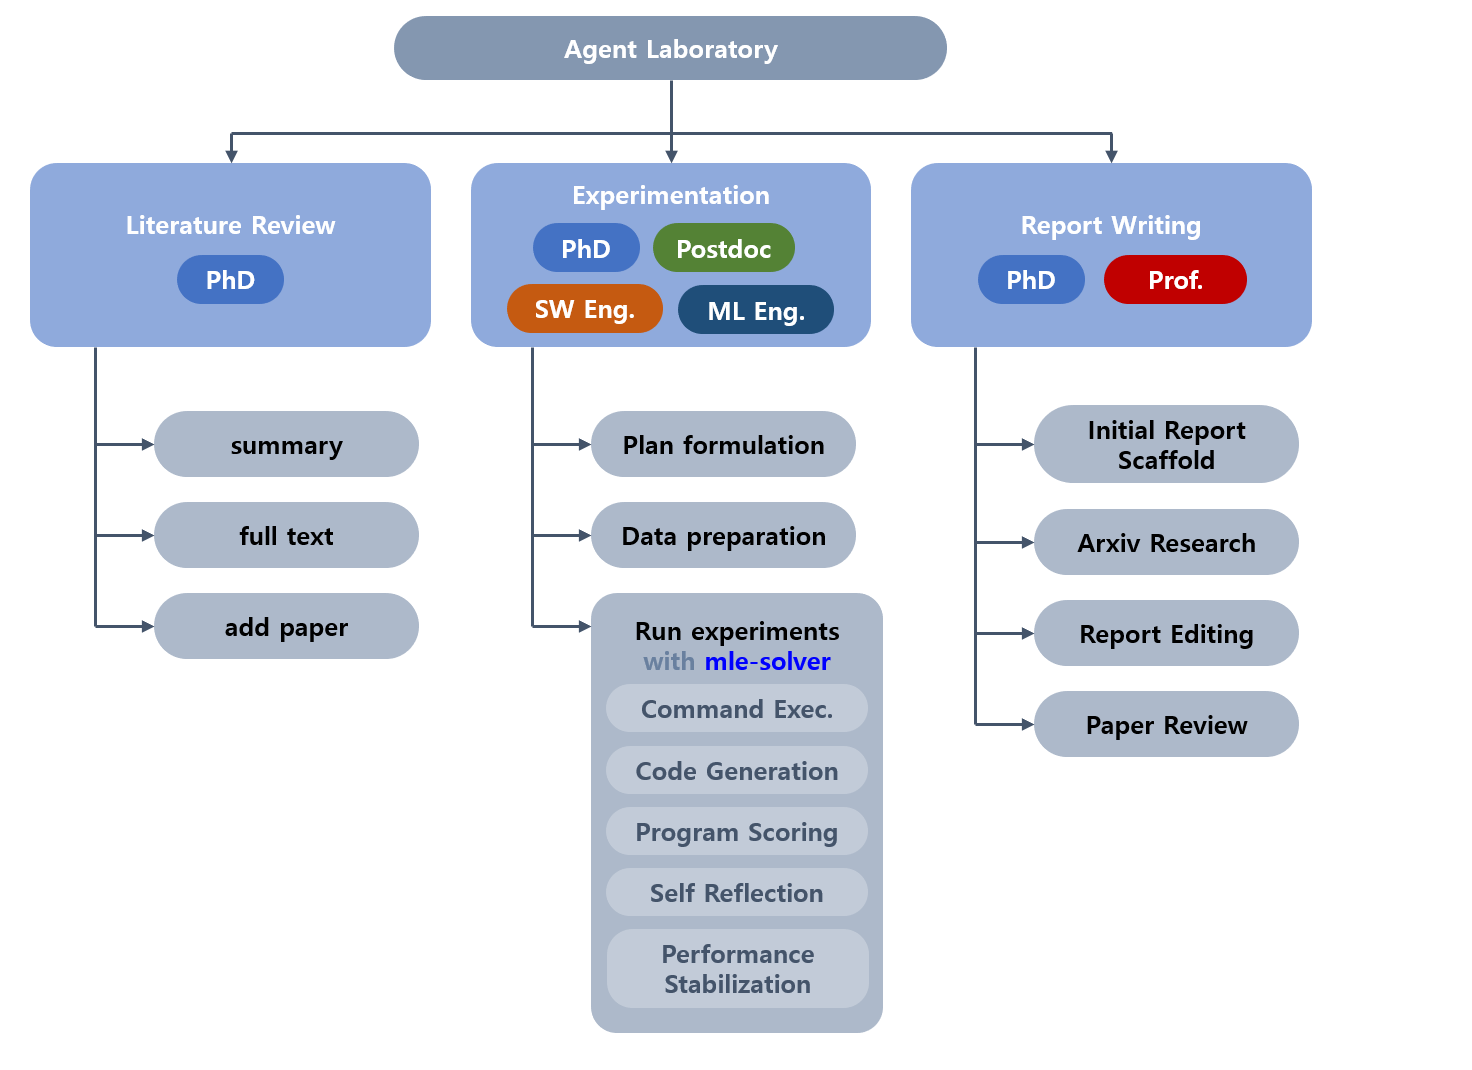
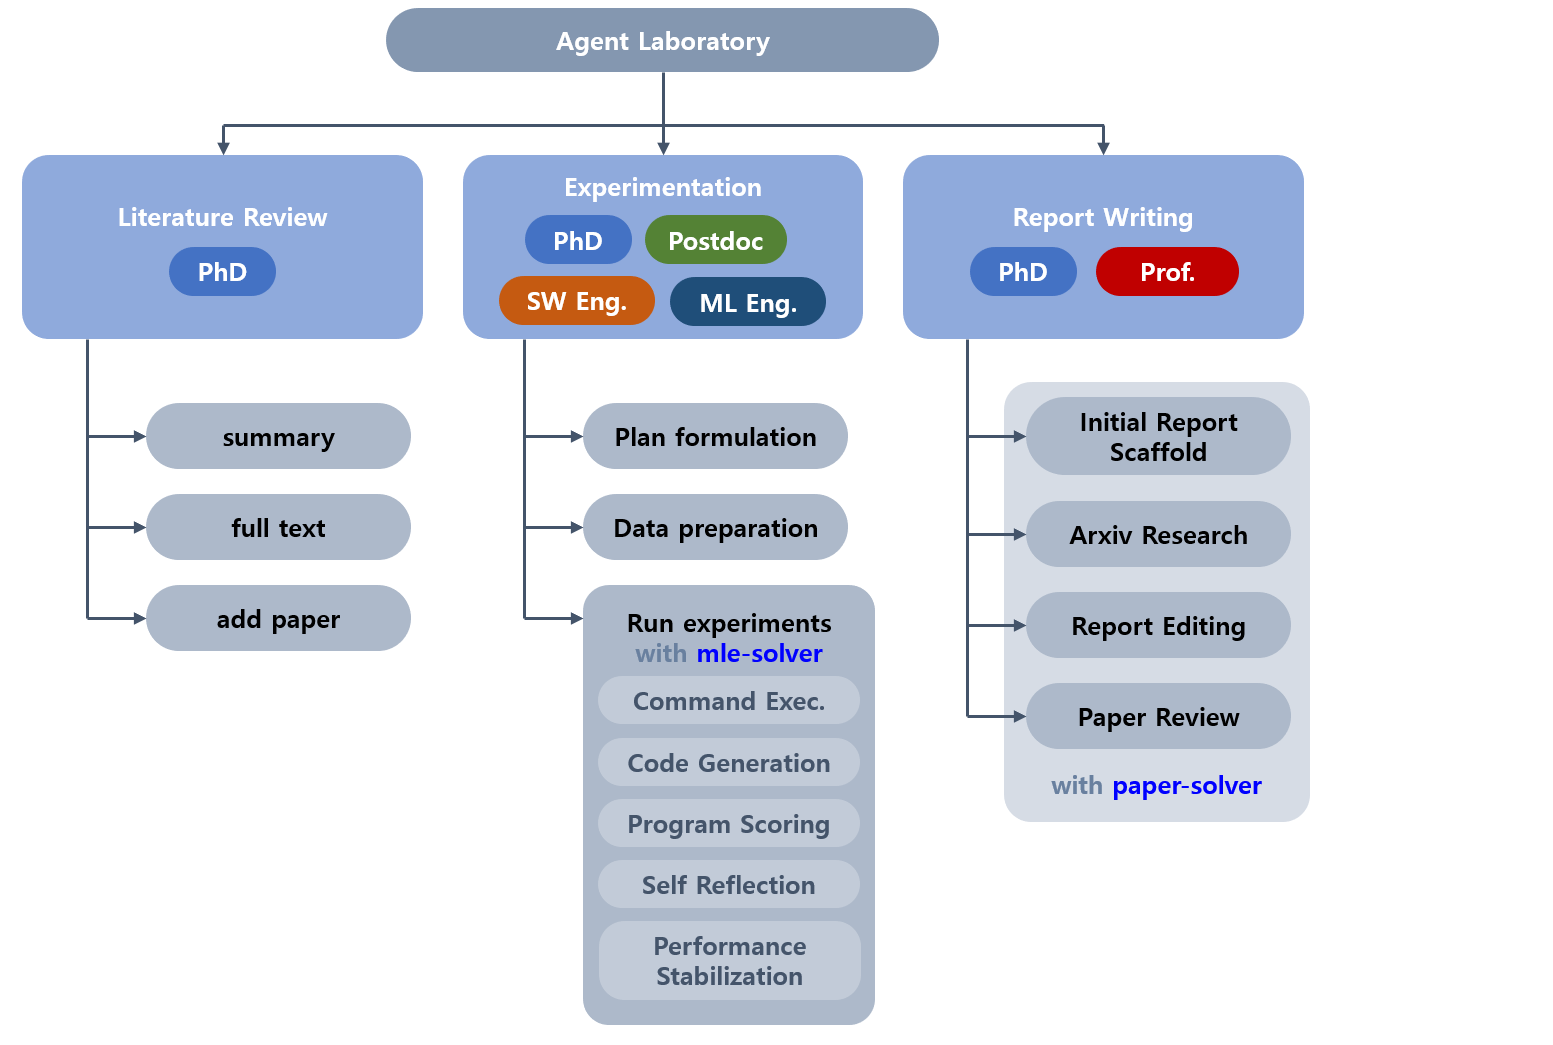
DOC: add Process 3 (Report Writing) part

diff --git a/Paper Study/Large Language Model/[2025.08.04] Agent Laboratory - Using LLM Agents as Research Assistants.md b/Paper Study/Large Language Model/[2025.08.04] Agent Laboratory - Using LLM Agents as Research Assistants.md
@@ -107,7 +107,7 @@
 
 [(출처)](https://arxiv.org/pdf/2501.04227) : Samuel Schmidgall and Yusheng Su et al., "Agent Laboratory: Using LLM Agents as Research Assistants"
 
-* ```mle-solver``` 에이전트의 상세 동작 방식
+* ```mle-solver``` 모듈의 상세 동작 방식
 
 | 동작 방식 (순서)                | 설명                                                                                                                                                                                                     |
 |---------------------------|--------------------------------------------------------------------------------------------------------------------------------------------------------------------------------------------------------|
@@ -118,6 +118,28 @@
 | Performance Stabilization | 다음의 2가지 메커니즘 적용<br>- **top program sampling** : 점수가 가장 높은 프로그램들 중 랜덤하게 선택<br>- **batch-parallelization** : 각 solver step 이 서로 다른 N개의 수정 버전을 만든 후, 성능이 가장 높은 수정본이 top collection에 있는 성능이 가장 낮은 프로그램을 대체 |
 
 ## 4. (Process 3) Report Writing (보고서 작성)
+
+| 핵심 설명                               | 관련 에이전트                      |
+|-------------------------------------|------------------------------|
+| 연구 결과로부터 얻은 발견 사항을 **학술 논문 형태로 변환** | - PhD Student<br>- Professor |
+
+**Report Writing (보고서 작성)** 은 연구 결과로부터 얻은 발견 사항을 **종합적으로 정리하여 학술 논문 형태로 변환** 하는 작업을 말한다.
+
+* ```paper-solver``` 는 연구 보고서를 **반복적으로 생성 및 개선** 하는 모듈이다.
+  * Report Writing 프로세스에서는 이 모듈을 사용하여 연구 결과에서의 발견 사항을 **학술 논문으로 변환** 한다. 
+
+![image](../images/AgentLaboratory_5.PNG)
+
+[(출처)](https://arxiv.org/pdf/2501.04227) : Samuel Schmidgall and Yusheng Su et al., "Agent Laboratory: Using LLM Agents as Research Assistants"
+
+* ```paper-solver``` 모듈의 상세 동작 방식
+
+| 단계                      | 설명                                                                                                                                          |
+|-------------------------|---------------------------------------------------------------------------------------------------------------------------------------------|
+| Initial Report Scaffold | 연구 논문의 **initial scaffold (논문 구조 및 ```Abstract``` ```Introduction``` ```Methods``` 등 8개 섹션 개요)** 생성<br>- 이 개요는 이후 상세 내용 생성을 위한 일종의 프레임워크 역할 |
+| Arxiv Research          | ```paper-solver``` 가 Arxiv 에 접근하여, **관련 논문을 탐색하여 reference 로 인용** 할 수 있게 함                                                                  |
+| Report Editing          | scaffold 생성 이후, **생성된 논문을 반복적으로 개선**<br>- 가장 중요한 명령어는 ```EDIT``` 으로, 논문의 각 줄을 LaTeX 포맷으로 변경                                                 |
+| Paper Review            | ```paper-solver``` 가 탐색하는 각 논문을 **리뷰를 통해 점수화**                                                                                              |
 
 ## 5. 실험 결과
 
